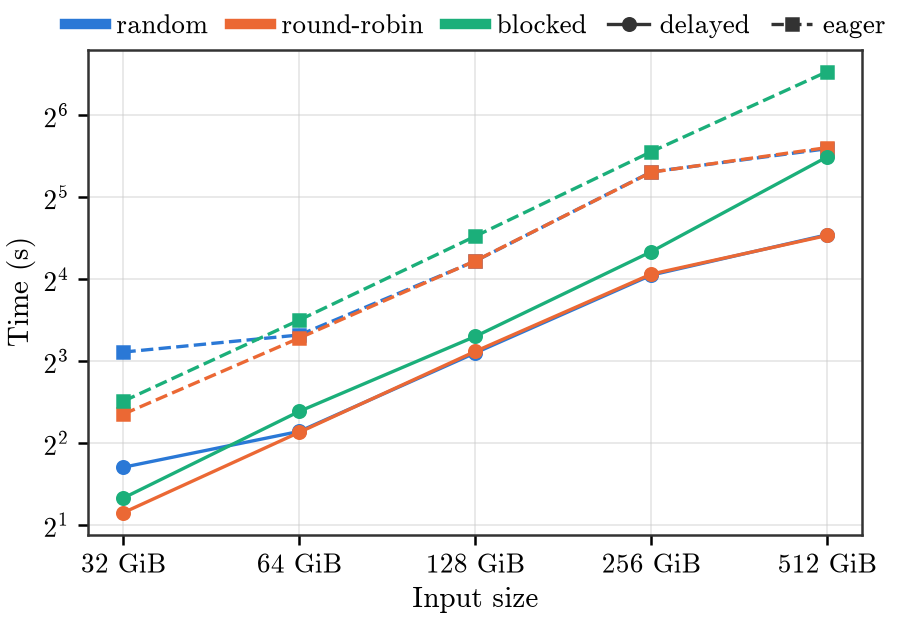
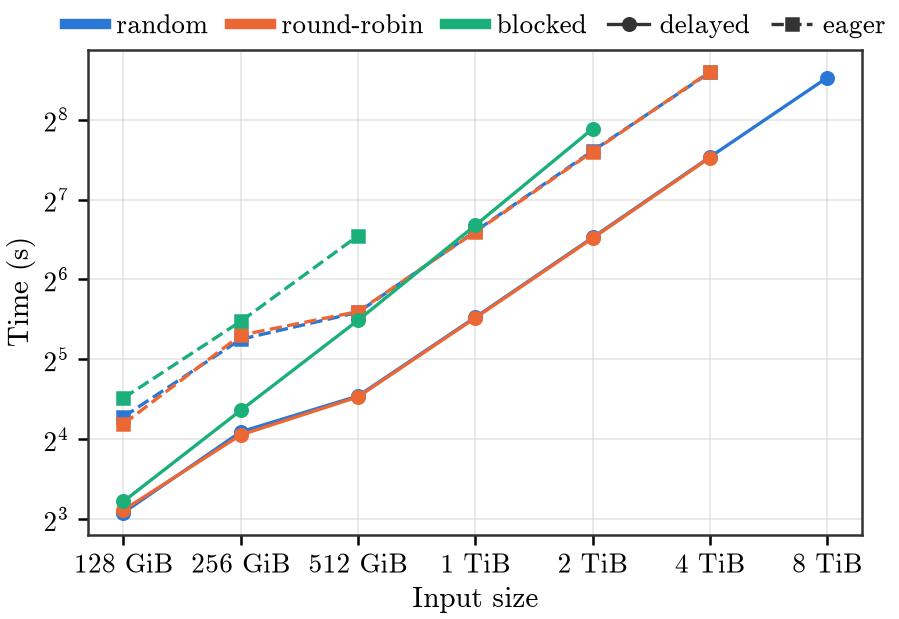
final ablation data

diff --git a/benchresults/Sep24-FinalFigures/plot_paper_figures.py b/benchresults/Sep24-FinalFigures/plot_paper_figures.py
@@ -37,8 +37,23 @@ import numpy as np  # noqa: E402
 
 SUMMARY_CSV = os.path.join(HERE, "summary_figure.csv")
 TRACE_CSV = os.path.join(HERE, "trace_bigint_add_4TiB_0", "trace.csv")
-ABLATION_CSV = os.path.join(HERE, "20260924-171939-drive-policy",
-                            "drive_policy_bigint_add.csv")
+# The ablation is stitched from four sweeps under ablation_data/, each carrying
+# whichever substrate(s) it measured (add_s = fused delayed, eager_add_s =
+# materialized eager):
+#   141415  all three policies, both substrates, 128 / 256 / 512 GiB
+#   102303  random + round_robin, both substrates, 1 / 2 / 4 TiB
+#   212756  blocked, delayed only, 1 TiB     (its eager arm is not measured
+#   201015  blocked, delayed only, 2 TiB      past 512 GiB)
+#   230836  random,  delayed only, 8 TiB     (the deepest point measured)
+# Merged per (policy, size, column) keeping the last non-blank value, so a
+# sweep that left a column empty never erases one that filled it.  Each curve
+# then spans exactly what exists for it.
+ABLATION_CSVS = [
+    os.path.join(HERE, "ablation_data", d, "drive_policy_bigint_add.csv")
+    for d in ("20260925-141415-drive-policy", "20260925-102303-drive-policy",
+              "20260925-212756-drive-policy", "20260925-201015-drive-policy",
+              "20260925-230836-drive-policy")
+]
 
 # Printed widths (inches) for a typical two-column paper.
 TEXT_WIDTH = 7.0
@@ -70,7 +85,6 @@ SUMMARY_LABELS = {"bellman_ford_sparse": "bellman-ford",
 SUMMARY_REDUCED_EXCLUDE = ("fft", "bellman_ford_sparse", "convex_hull")
 
 # Same order/colors as drive_policy_ablation.py's plot, so the figure matches.
-ABLATION_MAX_BYTES = 512 << 30
 POLICIES = [("random", "blue"), ("round_robin", "orange"), ("blocked", "aqua")]
 
 PAPER_RC = {
@@ -218,17 +232,21 @@ def plot_trace(outdir, t0, t1, split, smooth_s):
 
 
 def plot_ablation(outdir):
-    # blocked OOMs at 1 TiB (see warnings.txt), so cut every policy at
-    # 512 GiB and all six lines span the same sizes.
-    rows = [r for r in read_csv(ABLATION_CSV)
-            if int(r["input_bytes"]) <= ABLATION_MAX_BYTES]
+    # (policy, size, column) -> time, last non-blank wins across the sweeps.
+    merged = {}
+    for path in ABLATION_CSVS:
+        for r in read_csv(path):
+            for col in ("add_s", "eager_add_s"):
+                if r.get(col, "").strip():
+                    merged[(r["policy"], int(r["input_bytes"]), col)] = \
+                        float(r[col])
+
     P = plot_style.PALETTE
     fig, ax = plt.subplots(figsize=(COLUMN_WIDTH, 2.1))
     for policy, color in POLICIES:
-        prow = [r for r in rows if r["policy"] == policy]
         for col, style in (("add_s", "-o"), ("eager_add_s", "--s")):
-            pts = [(int(r["input_bytes"]), float(r[col]))
-                   for r in prow if r[col].strip()]
+            pts = sorted((size, t) for (pol, size, c), t in merged.items()
+                         if pol == policy and c == col)
             if pts:
                 xs, ys = zip(*pts)
                 ax.plot(xs, ys, style, color=P[color])
